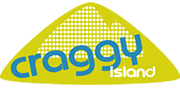
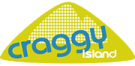
update pages to use new layout

diff --git a/www/style/style.css b/www/style/style.css
@@ -204,6 +204,7 @@ div#title {
 }
 
 div#title h1 {
+	display: inline;
 	font-size: 150%;
 }
 

diff --git a/www/6a.php b/www/6a.php
@@ -33,21 +33,24 @@ function six_main ($options)
 			$output .= html_header ('6a');
 			$output .= '<body>';
 
-			$output .= "<div class='download'>";
-			$output .= '<h1>Route Data</h1>';
-			//$output .= "<a href='files/guildford_6a.pdf'><img alt='6a route list as a pdf document' width='24' height='24' src='img/pdf.png'></a>";
-			//$output .= '&nbsp;&nbsp;';
-			$output .= "<a href='?format=text'><img alt='6a route list as a formatted text document' width='24' height='24' src='img/txt.png'></a>";
-			$output .= '&nbsp;&nbsp;';
-			$output .= "<a href='?format=csv'><img alt='6a route list as a csv document' width='24' height='24' src='img/ss.png'></a>";
+			$output .= "<div id='download'>";
+			$output .= '<h3>Route Data</h3>';
+			//$output .= "<a href='files/guildford_6a.pdf'><img alt='6a route list as a pdf document' width='32' height='32' src='img/pdf.png'></a>";
+			$output .= "<a href='?format=text'><img alt='6a route list as a formatted text document' width='32' height='32' src='img/txt.png'></a>";
+			$output .= "<a href='?format=csv'><img alt='6a route list as a csv document' width='32' height='32' src='img/ss.png'></a>";
 			$output .= '</div>';
 
-			$output .= "<div class='header'>";
-			$output .= "<img alt='craggy logo' src='img/craggy2.png'>&nbsp;&nbsp;&nbsp;&nbsp;";
-			$output .= "Top Roped 6a Routes <span>(Last updated: $last_update)</span>";
+			$output .= "<div id='header'>";
+			$output .= "<img alt='craggy logo' width='135' height='66' src='img/craggy.png'>";
 			$output .= "</div>";
+
 			$output .= html_menu();
-			$output .= "<div class='content'>\n";
+
+			$output .= "<div id='title'>";
+			$output .= "<h1>Top Roped 6a Routes</h1> <span>(Last updated: $last_update)</span>";
+			$output .= '</div>';
+
+			$output .= "<div id='content'>\n";
 			$output .= "<p>$count climbs ({$total_height}m)</p>";
 			$output .= list_render_html ($list, $columns, $widths, '{sortlist: [[0,0],[2,0],[1,0]]}');
 			$output .= '</div>';

diff --git a/www/checklist.php b/www/checklist.php
@@ -68,20 +68,23 @@ function checklist_main ($options)
 
 			$output .= html_header ('Checklist');
 			$output .= '<body>';
+			$output .= "<div id='header'>";
+			$output .= "<img alt='craggy logo' width='135' height='66' src='img/craggy.png'>";
+			$output .= "</div>";
 
-			$output .= "<div class='download'>";
-			$output .= '<h1>Route Data</h1>';
-			$output .= "<a href='?format=text'><img alt='checklist as a formatted text document' width='24' height='24' src='img/txt.png'></a>";
-			$output .= '&nbsp;&nbsp;';
-			$output .= "<a href='?format=csv'><img alt='checklist as a csv document' width='24' height='24' src='img/ss.png'></a>";
+			$output .= html_menu();
+
+			$output .= "<div id='title'>";
+			$output .= "<h1>Checklist (Routes in grade order)</h1> <span>(Last updated: $last_update)</span>";
 			$output .= '</div>';
 
-			$output .= "<div class='header'>";
-			$output .= "<img alt='craggy logo' src='img/craggy2.png'>&nbsp;&nbsp;&nbsp;&nbsp;";
-			$output .= "Checklist (Routes in grade order) <span>(Last updated: $last_update)</span>";
-			$output .= "</div>";
-			$output .= html_menu();
-			$output .= "<div class='content'>";
+			$output .= "<div id='download'>";
+			$output .= '<h3>Route Data</h3>';
+			$output .= "<a href='?format=text'><img alt='checklist as a formatted text document' width='32' height='32' src='img/txt.png'></a>";
+			$output .= "<a href='?format=csv'><img alt='checklist as a csv document' width='32' height='32' src='img/ss.png'></a>";
+			$output .= '</div>';
+
+			$output .= "<div id='content'>";
 			break;
 
 		case 'csv':

diff --git a/www/routes.php b/www/routes.php
@@ -39,13 +39,13 @@ function routes_main($options)
 
 			$output .= "<div id='download'>";
 			$output .= '<h3>Route Data</h3>';
-			$output .= "<a href='files/guildford.pdf'><img alt='route data as a pdf document' width='32' height='32' src='img/pdf.png'></a>";
 			$output .= "<a href='?format=text'><img alt='route data as a formatted text document' width='32' height='32' src='img/txt.png'></a>";
 			$output .= "<a href='?format=csv'><img alt='route data as a csv document' width='32' height='32' src='img/ss.png'></a>";
+			$output .= "<a href='files/guildford.pdf'><img alt='route data as a pdf document' width='32' height='32' src='img/pdf.png'></a>";
 			$output .= '</div>';
 
 			$output .= "<div id='header'>";
-			$output .= "<img alt='craggy logo' src='img/craggy2.png'>&nbsp;&nbsp;&nbsp;&nbsp;";
+			$output .= "<img alt='craggy logo' width='135' height='66' src='img/craggy.png'>";
 			$output .= "</div>";
 			//$output .= "All Routes <span>(Last updated: $last_update)</span>";
 

diff --git a/www/setters.php b/www/setters.php
@@ -48,12 +48,18 @@ function stats_main()
 	$last_update = date ('j M Y', strtotime (db_get_last_update()));
 
 	$output  = '<body>';
-	$output .= "<div class='header'>";
-	$output .= "<img alt='craggy logo' src='img/craggy2.png'>&nbsp;&nbsp;&nbsp;&nbsp;";
-	$output .= "Craggy Routes <span>(Last updated: $last_update)</span>";
+	$output .= '<body>';
+	$output .= "<div id='header'>";
+	$output .= "<img alt='craggy logo' width='135' height='66' src='img/craggy.png'>";
 	$output .= "</div>";
+
 	$output .= html_menu();
-	$output .= "<div class='content'>\n";
+
+	$output .= "<div id='title'>";
+	$output .= "<h1>Craggy Routes</h1> <span>(Last updated: $last_update)</span>";
+	$output .= '</div>';
+
+	$output .= "<div id='content'>";
 	$output .= stats_setters();
 	$output .= '</div>';
 	$output .= get_errors();

diff --git a/www/grades.php b/www/grades.php
@@ -128,12 +128,17 @@ function stats_main()
 	$last_update = date ('j M Y', strtotime (db_get_last_update()));
 
 	$output  = '<body>';
-	$output .= "<div class='header'>";
-	$output .= "<img alt='craggy logo' src='img/craggy2.png'>&nbsp;&nbsp;&nbsp;&nbsp;";
-	$output .= "Craggy Routes <span>(Last updated: $last_update)</span>";
+	$output .= "<div id='header'>";
+	$output .= "<img alt='craggy logo' width='135' height='66' src='img/craggy.png'>";
 	$output .= "</div>";
+
 	$output .= html_menu();
-	$output .= "<div class='content'>\n";
+
+	$output .= "<div id='title'>";
+	$output .= "<h1>Craggy Routes</h1> <span>(Last updated: $last_update)</span>";
+	$output .= '</div>';
+
+	$output .= "<div id='content'>\n";
 	$output .= stats_grade();
 	$output .= '</div>';
 	$output .= get_errors();

diff --git a/www/colour.php b/www/colour.php
@@ -37,12 +37,17 @@ function stats_main()
 	$last_update = date ('j M Y', strtotime (db_get_last_update()));
 
 	$output  = '<body>';
-	$output .= "<div class='header'>";
-	$output .= "<img alt='craggy logo' src='img/craggy2.png'>&nbsp;&nbsp;&nbsp;&nbsp;";
-	$output .= "Craggy Routes <span>(Last updated: $last_update)</span>";
+	$output .= "<div id='header'>";
+	$output .= "<img alt='craggy logo' width='135' height='66' src='img/craggy.png'>";
 	$output .= "</div>";
+
 	$output .= html_menu();
-	$output .= "<div class='content'>\n";
+
+	$output .= "<div id='title'>";
+	$output .= "<h1>Craggy Routes</h1> <span>(Last updated: $last_update)</span>";
+	$output .= '</div>';
+
+	$output .= "<div id='content'>";
 	$output .= stats_colour();
 	$output .= '</div>';
 	$output .= get_errors();

diff --git a/www/style.php b/www/style.php
@@ -48,12 +48,17 @@ function stats_main()
 	$last_update = date ('j M Y', strtotime (db_get_last_update()));
 
 	$output  = '<body>';
-	$output .= "<div class='header'>";
-	$output .= "<img alt='craggy logo' src='img/craggy2.png'>&nbsp;&nbsp;&nbsp;&nbsp;";
-	$output .= "Craggy Routes <span>(Last updated: $last_update)</span>";
+	$output .= "<div id='header'>";
+	$output .= "<img alt='craggy logo' width='135' height='66' src='img/craggy.png'>";
 	$output .= "</div>";
+
 	$output .= html_menu();
-	$output .= "<div class='content'>\n";
+
+	$output .= "<div id='title'>";
+	$output .= "<h1>Craggy Routes</h1> <span>(Last updated: $last_update)</span>";
+	$output .= '</div>';
+
+	$output .= "<div id='content'>";
 	$output .= stats_style();
 	$output .= '</div>';
 	$output .= get_errors();

diff --git a/www/age.php b/www/age.php
@@ -53,12 +53,17 @@ function stats_main()
 	$last_update = date ('j M Y', strtotime (db_get_last_update()));
 
 	$output  = '<body>';
-	$output .= "<div class='header'>";
-	$output .= "<img alt='craggy logo' src='img/craggy2.png'>&nbsp;&nbsp;&nbsp;&nbsp;";
-	$output .= "Craggy Routes <span>(Last updated: $last_update)</span>";
+	$output .= "<div id='header'>";
+	$output .= "<img alt='craggy logo' width='135' height='66' src='img/craggy.png'>";
 	$output .= "</div>";
+
 	$output .= html_menu();
-	$output .= "<div class='content'>\n";
+
+	$output .= "<div id='title'>";
+	$output .= "<h1>Craggy Routes</h1> <span>(Last updated: $last_update)</span>";
+	$output .= '</div>';
+
+	$output .= "<div id='content'>";
 	$output .= stats_age();
 	$output .= '</div>';
 	$output .= get_errors();

diff --git a/www/index.php b/www/index.php
@@ -12,10 +12,15 @@ function index_main()
 	$output  = html_header ('Overview');
 	$output .= '<body>';
 	$output .= "<div id='header'>";
-	$output .= "<img alt='craggy logo' src='img/craggy2.png'>&nbsp;&nbsp;&nbsp;&nbsp;";
-	$output .= "Craggy Routes <span>(Last updated: $last_update)</span>";
+	$output .= "<img alt='craggy logo' width='135' height='66' src='img/craggy.png'>";
 	$output .= "</div>";
+
 	$output .= html_menu();
+
+	$output .= "<div id='title'>";
+	$output .= "<h1>Craggy Routes</h1> <span>(Last updated: $last_update)</span>";
+	$output .= '</div>';
+
 	$output .= "<div id='content'>";
 	$output .= get_stats();
 	$output .= '</div>';
